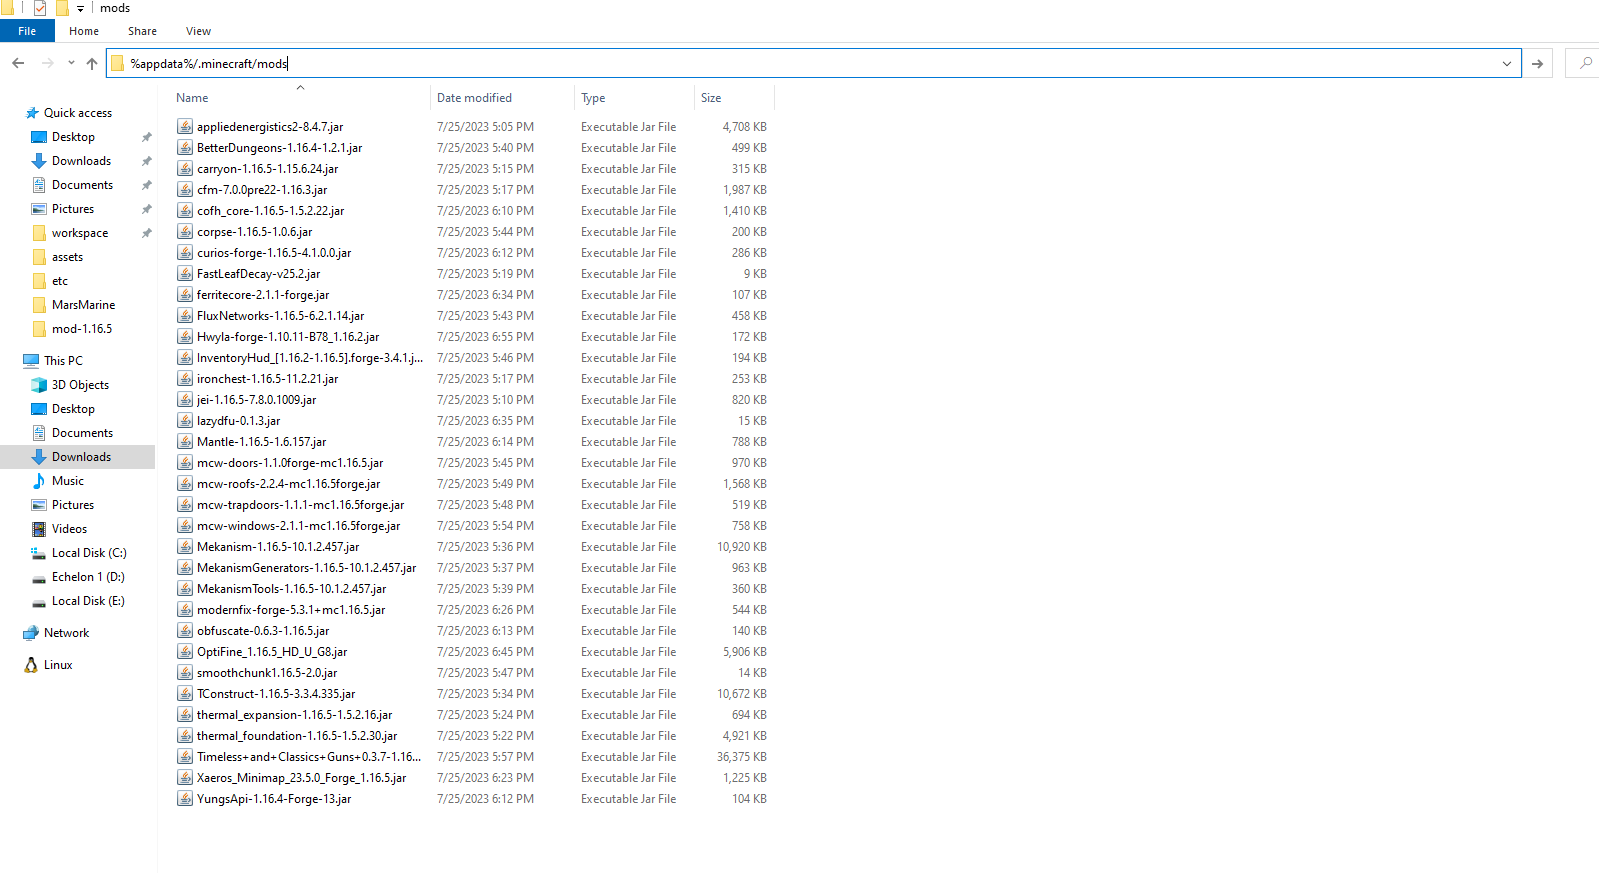
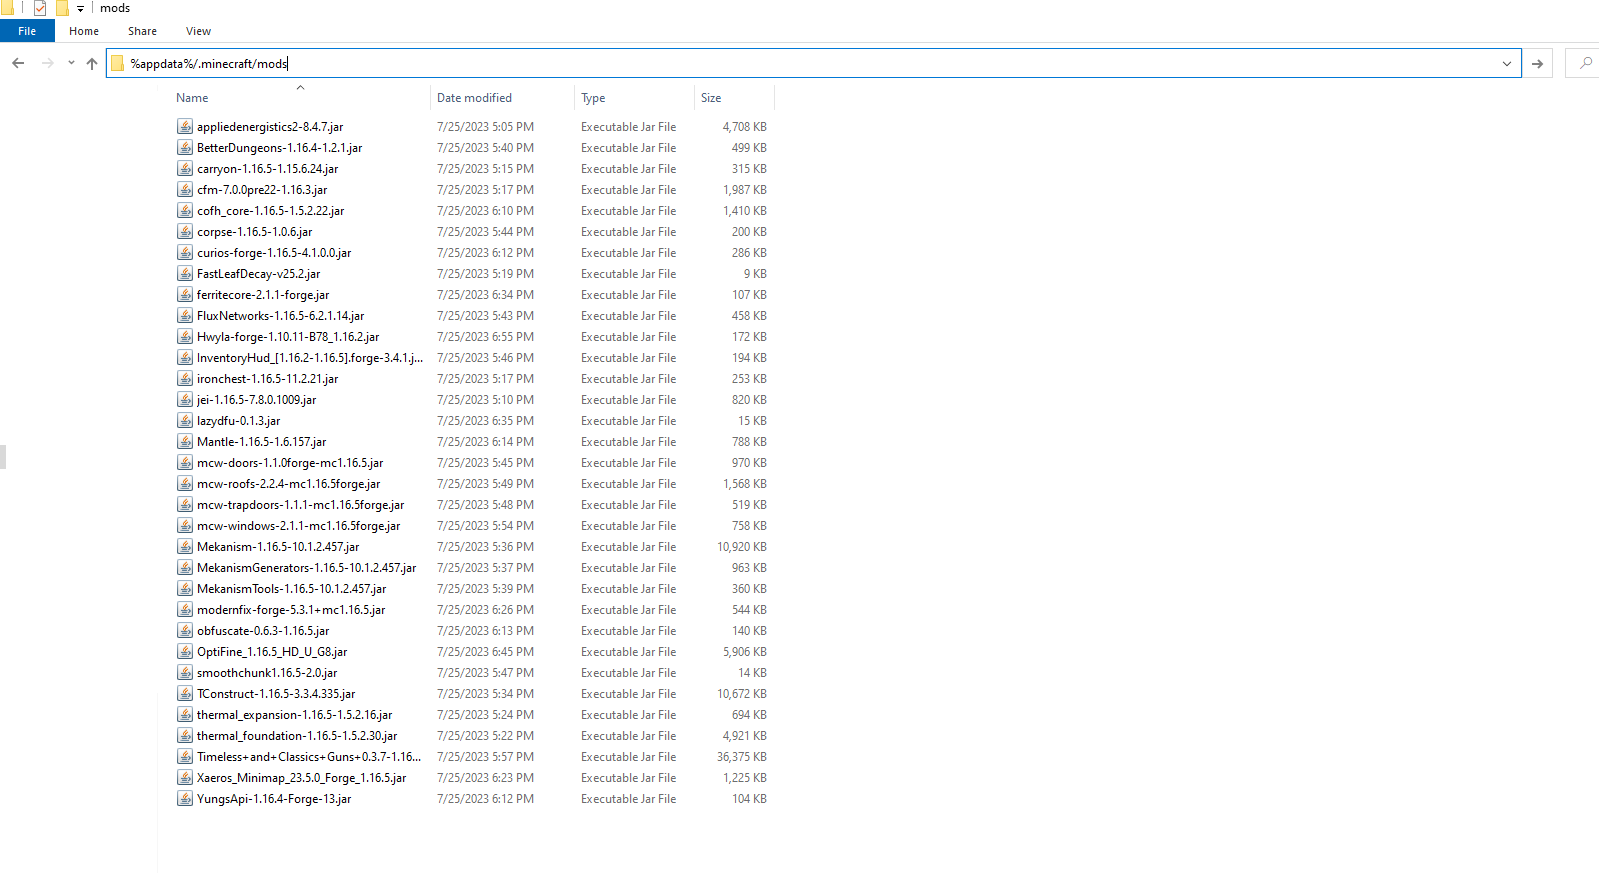
Updated README.md

Changed region(s): [[0.0, 0.1237, 0.0919, 0.7732]]

diff --git a/README.md b/README.md
@@ -9,4 +9,6 @@
 
 - Copy contents from mod-1.16.5 into mods folder
 
+![setup-1.png](./assets/images/setup-2.png)
+
 - Launch Mincraft Launcher and enjoy!
